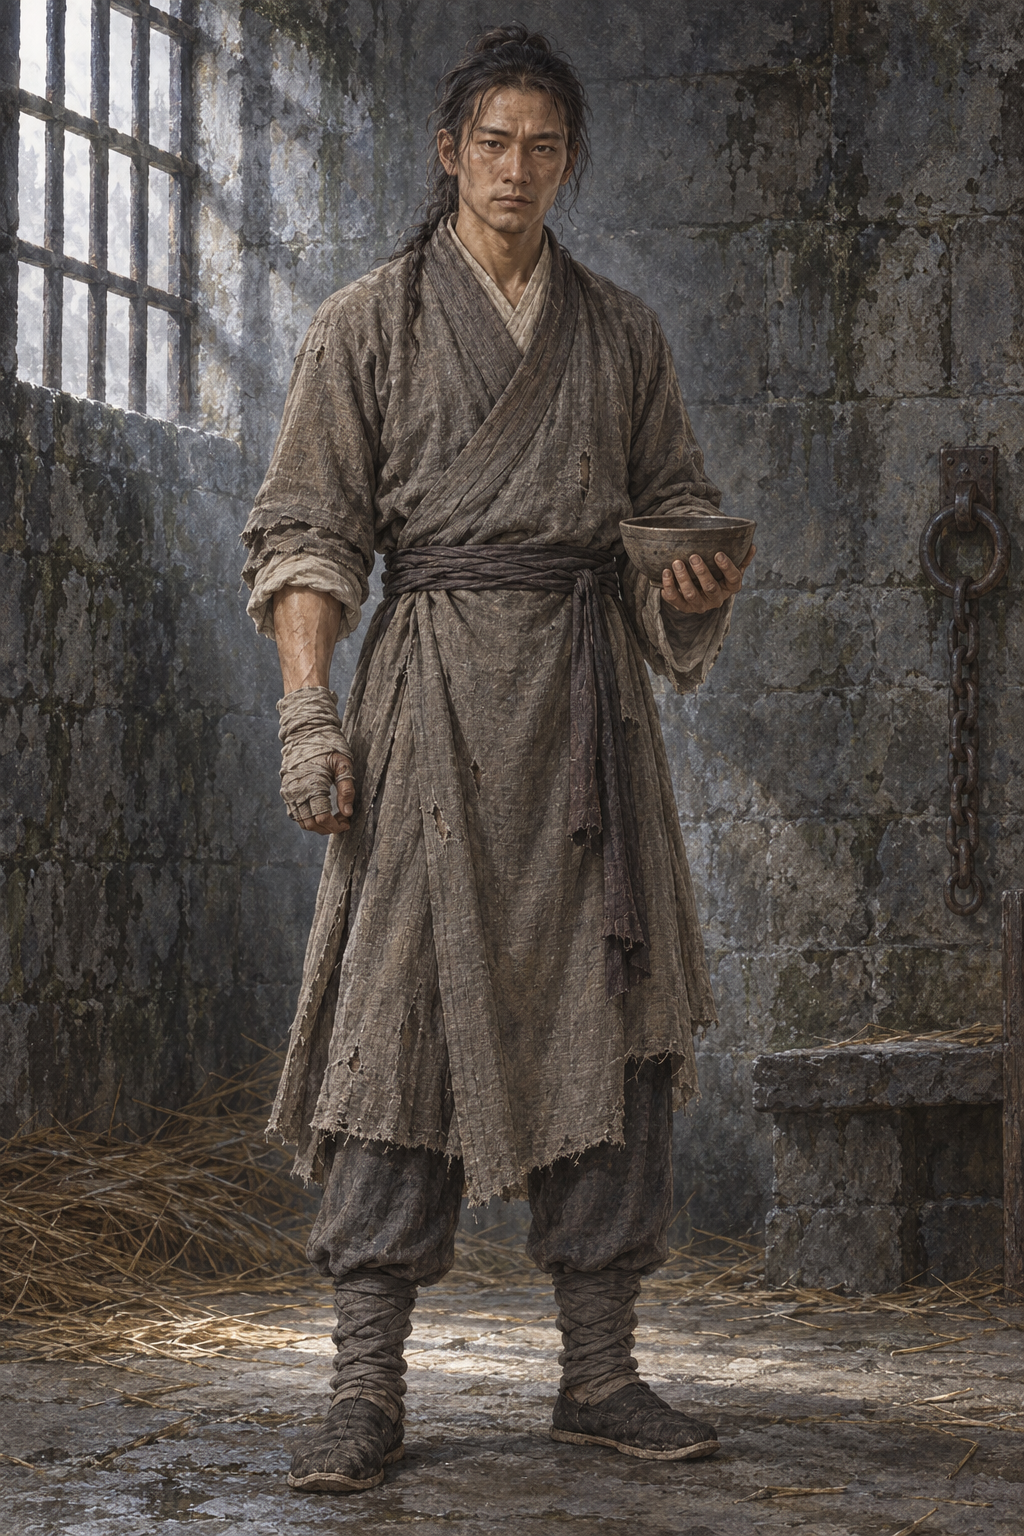
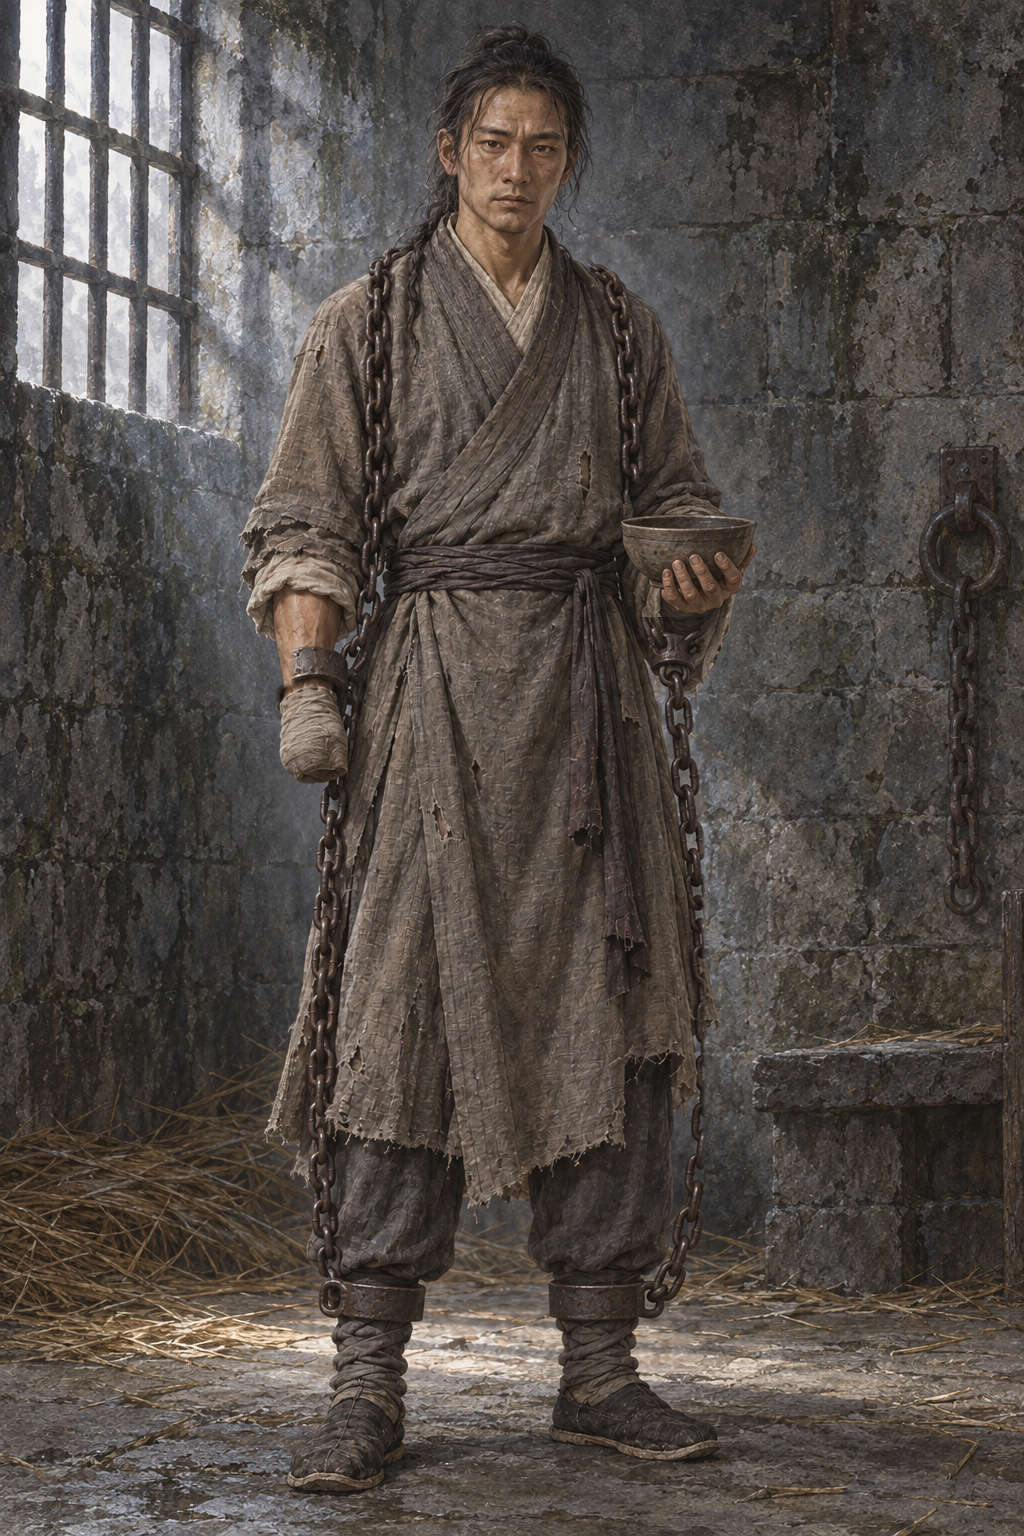
assets: AR-82 原著核对返修 狄云荆州牢狱肩腕脚锁链及右手五指全失
狄云荆州牢狱肩腕脚锁链及右手五指全失；原著摘句已同步提示词；蒙版外变化0像素。

Executed-By: Codex gpt-6.1-sol（AR-82）

diff --git a/assets/default/prompts/characters/ch09-liancheng/npc_diyun__scene_jingzhou_prison.md b/assets/default/prompts/characters/ch09-liancheng/npc_diyun__scene_jingzhou_prison.md
@@ -34,6 +34,12 @@ size: 1024x1536
 
 # 狄云·荆州铁狱
 
+## AR-82 当前定稿要求
+
+只改身上束缚与右手（人物自身右手在画面左侧）：双肩各一条铁链从衣缝垂下，连接到新增两腕铁铐和双踝镣链，锁链真实连在身上不能只在墙边悬挂；不表现穿刺血肉。右手旧布包扎成残掌、无拇指也无其余四指，原外露指头全部去掉，仅残掌轮廓和包扎布，左手完整持碗原样。保持头脸发式、完整衣服、姿势、碗及牢室。
+
+以上为当前原著核对后的要求，覆盖下文旧版中与之冲突的服饰、器物、伤残、光线和体态描述。
+
 ## Gemini 提示词
 
 ```text
@@ -51,3 +57,9 @@ size: 1024x1536
 
 - 参考分工见实际提示词；配色、姿势、取景及成年化均为（原创扩展）。
 - 本轮结果已逐图目检并入库为 candidate；实际作业与参考哈希见 manifest。
+
+## 原著依据
+
+- 《连城诀》二《牢狱》：“两条铁链从自己双肩垂了下来”（https://xuges.com/WUXIA/jinyong/lcj/009.htm）
+- 《连城诀》二《牢狱》：“右手的五根手指已被人削落”（https://xuges.com/WUXIA/jinyong/lcj/008.htm）
+- AR-82 返修约束：只改身上束缚与右手（人物自身右手在画面左侧）：双肩各一条铁链从衣缝垂下，连接到新增两腕铁铐和双踝镣链，锁链真实连在身上不能只在墙边悬挂；不表现穿刺血肉。右手旧布包扎成残掌、无拇指也无其余四指，原外露指头全部去掉，仅残掌轮廓和包扎布，左手完整持碗原样。保持头脸发式、完整衣服、姿势、碗及牢室。
